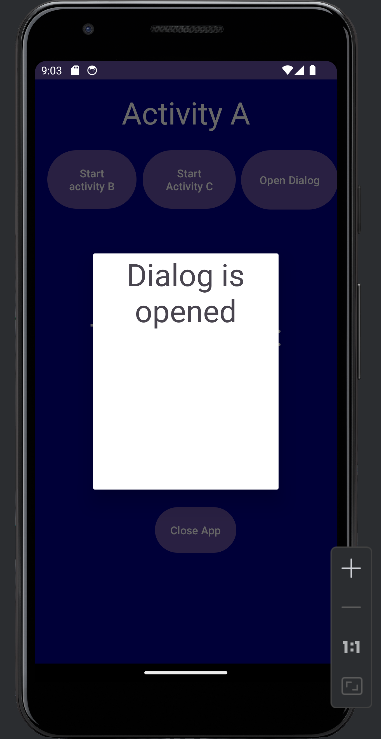
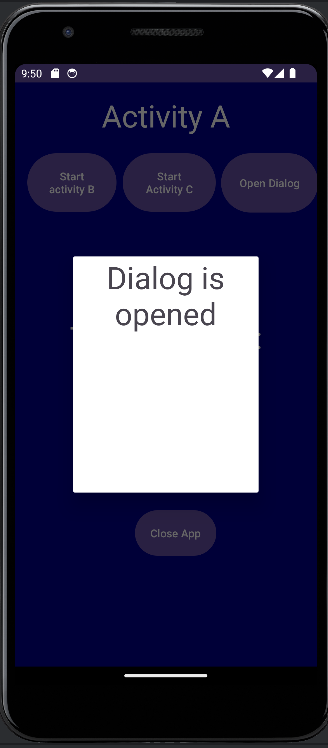
changes
changes

diff --git a/README.md b/README.md
@@ -8,13 +8,13 @@ On the other hand, when a dialog Activity is opened, and we go back to the previ
 
 Home screen:
 
-<img width="201" alt="image" src="https://github.com/MohitSinghvi/android-lifecycle/assets/35193178/cd4c37c5-bb54-44a7-a8f7-4687e90af37f">
+<img width="201" alt="image" src="https://github.com/hhh99-hub/Android_Lifecycle/blob/main/Images/pic1.png?raw=true">
 
 </br>
 
 Activity B opened:
 </br>
-<img width="200" alt="image" src="https://github.com/hhh99-hub/Android_Lifecycle/blob/main/Images/pic1.png?raw=true">
+<img width="200" alt="image" src="https://github.com/MohitSinghvi/android-lifecycle/assets/35193178/a59dc0b3-a471-40cc-a2c0-440c61a62fab">
 </br>
 Count incremented by 5:
 </br>
